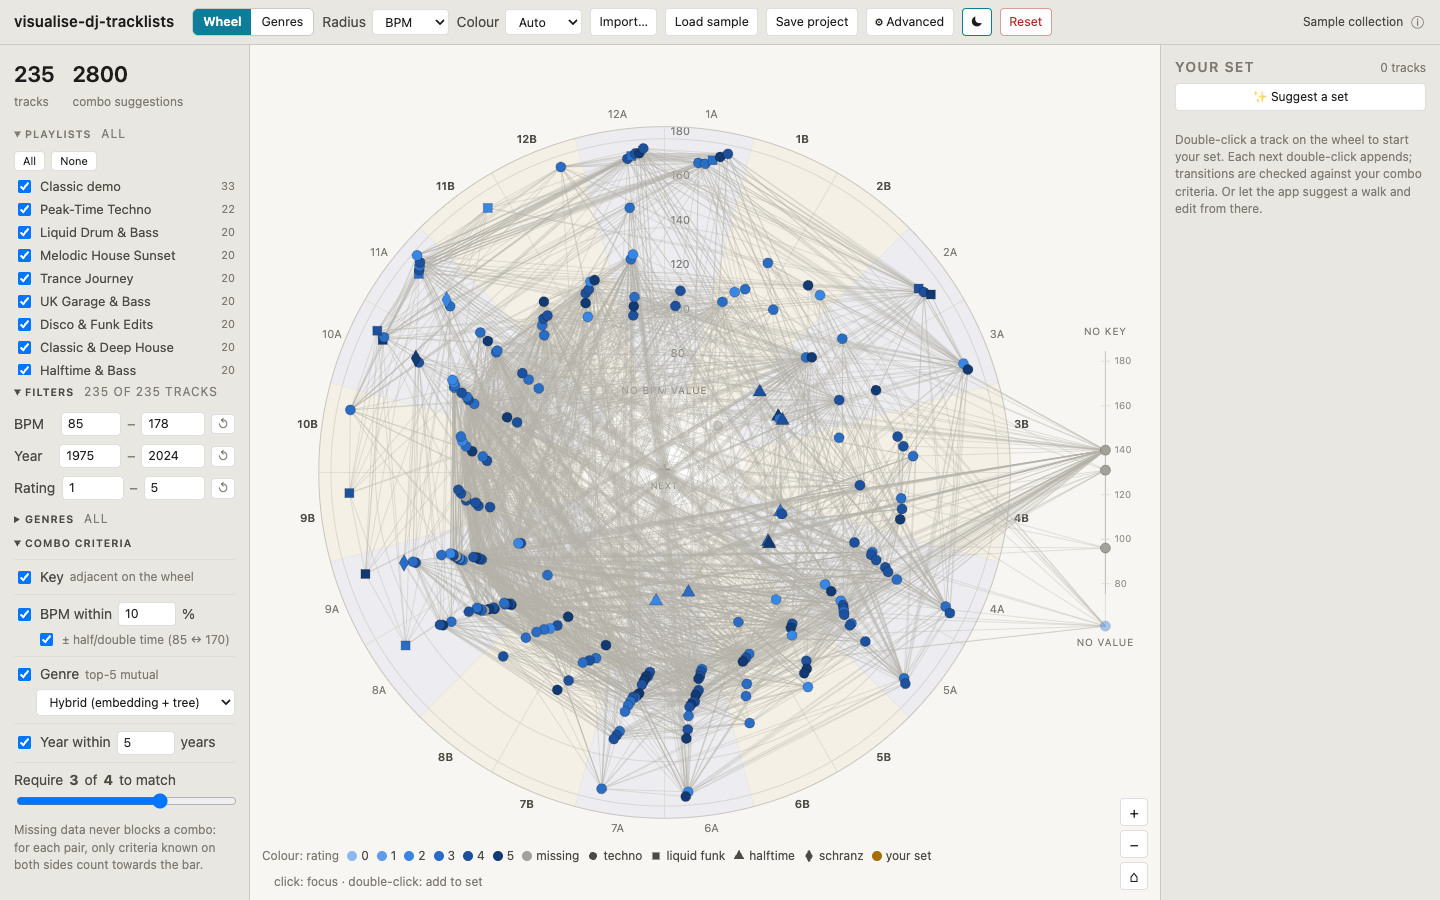
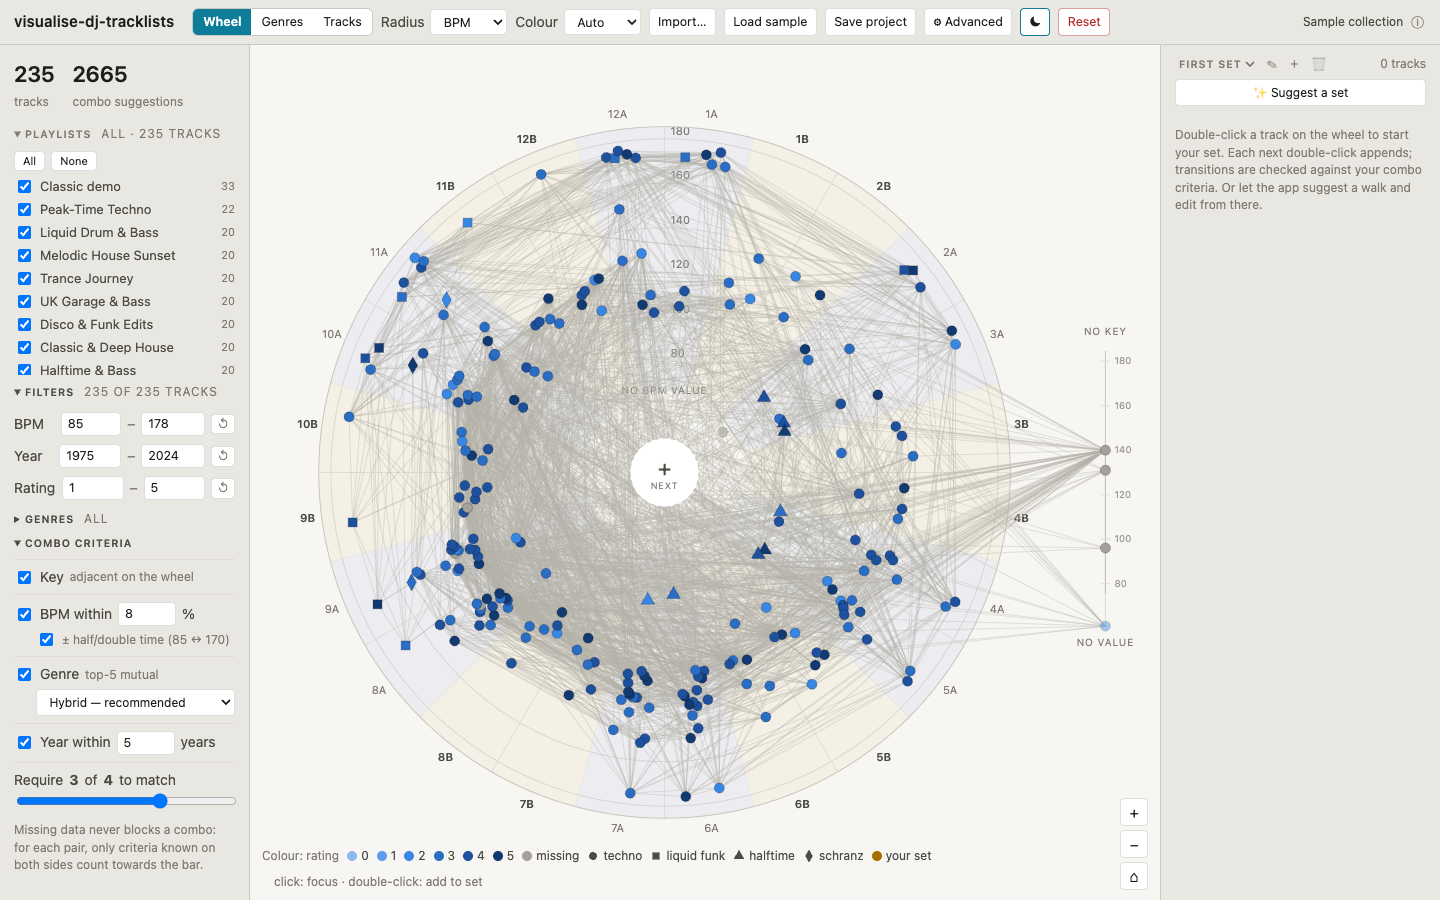
v7 WS17: design-v7.md, README for the v7 features, refreshed screenshots

diff --git a/src/lib/TracksView.svelte b/src/lib/TracksView.svelte
@@ -34,7 +34,13 @@
         : { field, dir: 'asc' }
   }
 
-  const rows = $derived(sortTracks($playlistScopedLibrary, sort))
+  // Sorting always runs over the whole selection, but only the top window is
+  // mounted: thousands of rows with per-row controls take seconds to build,
+  // and the top of the sorted order is what gets scanned anyway. Narrowing
+  // the playlist selection (or flipping the sort) reaches the rest.
+  const MAX_ROWS = 500
+  const sorted = $derived(sortTracks($playlistScopedLibrary, sort))
+  const rows = $derived(sorted.slice(0, MAX_ROWS))
   const connectedIds = $derived($selectedId === null ? null : $neighbours.get($selectedId))
   const mustSet = $derived(new Set($mustInclude))
 
@@ -133,6 +139,12 @@
         {/each}
       </tbody>
     </table>
+    {#if sorted.length > MAX_ROWS}
+      <p class="capped">
+        Showing the first {MAX_ROWS} of {sorted.length} tracks — flip the sort or narrow the playlist
+        selection to reach the rest.
+      </p>
+    {/if}
   {/if}
 </section>
 
@@ -202,8 +214,6 @@
 
   tbody tr {
     cursor: pointer;
-    content-visibility: auto;
-    contain-intrinsic-height: 30px;
   }
 
   tbody tr:hover {
@@ -261,6 +271,12 @@
   .tag.on {
     color: var(--accent);
     opacity: 1;
+  }
+
+  .capped {
+    margin: 8px 12px 12px;
+    color: var(--ink-muted);
+    font-size: 12px;
   }
 
   .visually-hidden {

diff --git a/src/lib/AdvancedMenu.svelte b/src/lib/AdvancedMenu.svelte
@@ -502,12 +502,14 @@
     color: var(--ink-secondary);
   }
 
-  /* Two radio choices side by side; each label keeps its circle and text
-     on one line (issue 11: the old single-label layout wrapped mid-choice). */
+  /* Two radio choices; each label keeps its circle and text on one line
+     (issue 11: the old single-label layout wrapped mid-choice). The row
+     itself may wrap BETWEEN the choices when the panel is narrow. */
   .mode-row {
     display: flex;
     align-items: center;
-    gap: 16px;
+    flex-wrap: wrap;
+    gap: 2px 16px;
   }
 
   .mode-row label {

diff --git a/docs/designs/design-v7.md b/docs/designs/design-v7.md
@@ -1,0 +1,161 @@
+# Design v7 — Eighteen issues after using v6
+
+Eighteen issues from real sessions with v6 (docs/ISSUES.md), covering wheel-geometry
+polish, three large builds (a Tracks table view, multiple named sets, undo), an
+app-wide colour scheme, and one investigation (the "inert" k/threshold sliders).
+This document records the design decided with Michiel before implementation
+(2026-07-16). One item supersedes a documented v6 invariant; it is called out below.
+
+## The issues and their resolutions
+
+| #   | Issue                                             | Resolution                                                                                                                                                 |
+| --- | ------------------------------------------------- | ---------------------------------------------------------------------------------------------------------------------------------------------------------- |
+| 1   | Default BPM range should be 8%                    | `DEFAULT_CRITERIA.bpm.maxPercent` 10 → 8 — the pitch-bend range of a classic Technics 1210 fader; the criterion was already percentage-based                 |
+| 2   | Hotkeys, at least Cmd+Z                           | Cmd+Z / Cmd+Shift+Z undo/redo covering set edits and selection changes ONLY — deliberately the app's single global shortcut this release (§E)               |
+| 3   | Genre map flies in from the top left              | Nodes without a cached position spawn at the map centre (tiny deterministic offsets) instead of d3's origin-spiral default, then physics spreads them        |
+| 4   | Radius/Colour meaningless off the wheel           | The top-bar Radius/Colour selects and the wheel-only Display sliders (spread, edge opacity) disable + grey with a tooltip when the wheel isn't active        |
+| 5   | Animations slightly too fast                      | The radial-domain tween 350 → 600 ms; the genre-map simulation cools slower (alphaDecay 0.02) with more damping (velocityDecay 0.5)                         |
+| 6   | Replace-library warning looks foreign             | A generic in-app `ConfirmDialog` (ResetDialog's `<dialog>` idiom) replaces the native confirm(); sample-over-sample still replaces silently                  |
+| 7   | A third central "Tracks" view                     | A sortable metadata table over the selected playlists with shared selection, connected-row highlighting, double-click append, and set-tag toggles (§F)      |
+| 8   | Playlist/filter counts                            | The Playlists summary becomes "2/9 · 214 tracks" (selection's track total); the Filters summary counts visible over the SELECTED PLAYLISTS, not the library |
+| 9   | Parentheticals in the combo-panel method dropdown | Short labels (`METHOD_LABEL`) in the combo panel with "Hybrid — recommended"; the advanced menu keeps the long labels (`METHOD_LABEL_LONG`) + explainers    |
+| 10  | Advanced settings reorder                         | "Set order" + "Suggestions" merge into one **Set & suggestions** section, LAST and open; opener/closer/essential are chosen in the Tracks view, the menu only lists them read-only with ✕ remove buttons (§F) |
+| 11  | k-nearest/threshold radios wrap badly             | The two radios split into separate labels inside a no-wrap `.mode-row` (the shared label's `flex-wrap: wrap` was the culprit)                               |
+| 12  | k/threshold seem to have no effect                | Diagnosed §G: the wheel respects them (masked); the genre map ignored them. Now the map draws the criterion's REAL matches and the menu shows a live pair count |
+| 13  | Colour scheme should tint the whole app           | `ACCENT_TOKENS` per theme × scheme stamped on `<html>` by theme.ts; blue = the app.css defaults (unit-test-enforced sync); surfaces stay neutral (§H)       |
+| 14  | Genre checklist/classes scoped to playlists       | `scopedGenres` and `genreClasses` derive from the playlist-scoped library — **supersedes the v6 §B "symbols never reshuffle" invariant across playlist toggles** (§B) |
+| 15  | Edge opacity dead in focus mode                   | `focusEdgeOpacity(base, inFocus)` derives both focus opacities from the setting (base 0.35 reproduces the old 0.6/0.05 contrast)                            |
+| 16  | Same-key spread feels artificial                  | Pushback accepted: not uniform random jitter (collides in dense slots) but a stable seeded random ORDER with even spacing; 0–1 spread factor + ↻ re-jitter (§A) |
+| 17  | Hub: hit target, disable, random, follow, retry   | Hub painted last with an oversized hit disk; greys out when every visible track is used; random opener per press; selection follows every pick; a dashed retry ring swaps the last pick (§C) |
+| 18  | Nameable sets, generated indicator                | Multiple named sets (roadmap feature pulled forward): project schema v3, a switcher in the set panel, ordinal default names, a ✨ badge on untouched generator output (§D) |
+
+Decisions taken with the user: undo covers set edits + selection only; the Tracks
+view also appends to the set (double-click); the jitter design is the even-spacing
+counter-proposal; sets are truly multiple (not one renamable set); genre shapes keep
+similarity clustering but scope it to the selected playlists; the colour scheme
+tints the accent family only; the genre map is wired to the criterion parameters
+AND the menu gets a live matched-pair count; no hotkeys beyond undo/redo.
+
+## §A Same-key fan order: stable jitter, not sorted sweeps
+
+v6 sorted each slot's fan by the raw radial value, which made every fan a tidy
+diagonal sweep — angle correlated with BPM, reading as an artifact. v7 orders each
+slot by `hashUnit(trackId, jitterSeed)` (FNV-1a whitened through one mulberry32
+step): random-looking, but a pure function of the id and a persisted seed, so
+angles still never move under filtering, reloads, or playlist toggles. Even
+spacing across the window is kept — uniform random OFFSETS (the original request)
+would visibly clump at ~85 tracks per slot. `slotSpreadDeg` became
+`slotSpreadFactor` (0–1 of the ±7.5° half-slot window, default 1; old saves
+migrate by division); the ↻ button beside the slider draws a new seed and is the
+seed's only writer.
+
+## §B Playlist-scoped genres (supersedes v6 §B in part)
+
+The genre checklist (`scopedGenres`) and the shape clustering (`genreClasses`) now
+derive from the playlist-scoped library instead of the whole collection: a
+2000-track collection's full genre list drowned the playlist actually being
+worked. Within a fixed playlist selection the v6 rule still holds — range/genre
+filtering never re-clusters and symbols never reshuffle — but toggling playlists
+deliberately re-clusters to the new selection. Persisted genre-filter entries
+outside the current scope simply don't render.
+
+## §C Hub v2
+
+Five fixes in one place (WheelView):
+
+- **Paint order**: the hub renders after edges and nodes with a transparent r=46
+  hit disk — nothing steals its clicks any more.
+- **Random opener**: the empty-set, no-selection pick uses `randomStart` under
+  `mulberry32(seed)` with a per-session random seed base — pressing again
+  explores; `bestConnected` is gone.
+- **Follow the pick**: after every hub pick `selectedId` jumps to the added
+  track, so repeated presses continue from the head.
+- **All-used disable**: `hubAllUsed` (every visible track in the set) greys the
+  hub out (`pointer-events: none`, `aria-disabled`) instead of silently no-oping.
+- **Retry ring**: a dashed outer ring appears while `retryAlternativeExists`
+  (pure, adjacency-map based) says a different pick is possible; clicking swaps
+  the last hub pick in place via `suggestNext`'s new `excludeIds` option (earlier
+  retries stay excluded, so it cycles). Any external set edit closes the window.
+
+## §D Multiple named sets, project schema v3
+
+`Project.version = 3`: `sets: TrackSet[]` (`{id, name, trackIds, generated}`) +
+`activeSetId` replace the flat `tracklist`. v1/v2 saves migrate their tracklist
+into one un-generated "First Set"; garbage entries sanitize like tracks do; the
+storage key is unchanged (it names the slot, not the schema).
+
+The stores keep the historical `tracklist: Writable<string[]>` API as a custom
+store backed by the active set — its ~19 call sites did not change. Manual
+`set`/`update` clears the set's `generated` flag; the generator writes through
+`setGeneratedTracklist`, which sets it — that flag drives the subtle ✨ badge
+("untouched generated set") in the panel header. The header holds the switcher
+(a select over the sets), inline rename (no native prompt), ＋ (next ordinal
+name: First, Second, … Twelfth, then "Set 13"), and 🗑 (disabled at one set;
+deleting the last one clears it instead). Suggestion history stays global-session;
+pins/must-include stay global-session and untouched by switching — both
+documented simplifications, not oversights.
+
+## §E Undo
+
+`src/core/history.ts` is a pure past/present/future stack over
+`{trackIds, generated, selectedId}` snapshots (dedupe on deep-equal, limit 100).
+`src/lib/undoStore.ts` subscribes to the active set + selection and records
+everything not caused by an undo/redo itself; Cmd+Z / Cmd+Shift+Z live on one
+window listener in App.svelte, skipped inside text fields and open dialogs. The
+stack resets on set switches, library replacement, and project loads — undo never
+resurrects one set's tracks into another. A generator overwrite is exactly one
+store write, hence one undo step, and the snapshot carries `generated`, so
+undoing it restores both the tracks and the badge. Known quirk: `suggestionIndex`
+is not snapshotted, so after undoing a generated set the ◀/▶ arrows may point one
+entry off. Deliberate non-goals: undo for settings/filters/criteria, undoable set
+switching or deletion, more hotkeys.
+
+## §F The Tracks view and the thinner advanced menu
+
+The third central view (`viewMode: 'tracks'`) is a classic DJ-software browser:
+one row per track of the SELECTED PLAYLISTS (`playlistScopedLibrary` — the range
+and genre filters deliberately do not apply; it is a management surface, not the
+graph). Columns sort per `sortTracks`: strings by locale, numbers numerically,
+keys in Camelot order ("2A" before "10A"), missing values sinking to the bottom
+in both directions. Clicking a row toggles the global selection and highlights
+combo neighbours (`.connected`); double-click appends via the shared
+`appendToSet`. Per-row toggles — ★ essential (must-include), ⏮ opener, ⏭ closer —
+write the same session stores as the 📌 pins, and every tagged track wears a
+subtle accent `tag-ring` behind its wheel dot.
+
+The advanced menu consequently slims down (issue 10): the opener/closer `<select>`
+pickers are gone; "Set order" and "Suggestions" merged into **Set & suggestions**,
+placed last and open by default (the tuning sections start folded), holding the
+generation parameters plus a read-only list of the current opener/closer/essential
+choices with ✕ removes and a "Choose in the Tracks view →" button.
+
+## §G The k/threshold investigation (issue 12)
+
+Diagnosis: the wheel DOES respect mode/k/threshold — `makeGenreMatcher` rebuilds
+reactively — but the effect is masked twice over (an edge needs 3-of-4 criteria,
+so genre rarely is the swing vote; identical labels always match regardless).
+The genre map, however, ignored the parameters entirely: it drew its own edges
+from `labelSimilarity` over a fixed score floor and even seeded its overlay set
+non-reactively. Fix: `matchedGenrePairs(genres, cfg)` in combos.ts computes the
+exact label pairs the criterion links; the map's overlay for the SELECTED method
+draws precisely those pairs (other overlay methods and ghost edges keep the
+similarity view as comparative context), the criterion's method re-joins the
+overlays whenever it changes, and the advanced menu shows a live
+"N genre pairs in your library match" count beside the sliders.
+
+## §H App-wide colour schemes
+
+Blue/Aqua/Violet stop being node-only: `ACCENT_TOKENS[theme][scheme]` in
+scales.ts carries `--accent`, `--on-accent`, `--walk`, `--walk-bright` per theme,
+and theme.ts stamps them inline on `<html>` whenever the theme OR the scheme
+changes. app.css keeps the blue values as its defaults, and a unit test asserts
+`ACCENT_TOKENS.*.blue` equals them — the same sync contract as `MISSING_COLORS`.
+All accent/on-accent pairs pass WCAG AA (4.5:1, tested). Surfaces, sector tints
+and the genre-map method-overlay palette stay neutral/unchanged; the ☀/☾ theme
+toggle is orthogonal.
+
+## Non-goals
+
+Guaranteed must-include placement and per-set pins (unchanged from v6); undo for
+anything beyond set edits + selection; table virtualization (2080 rows render
+fine with `content-visibility: auto`); more hotkeys; per-scheme surface tinting.

diff --git a/README.md b/README.md
@@ -33,27 +33,41 @@ Your library never leaves your machine — there is no backend, no account, no u
 - **Nodes that hold still**: every track's angle is a property of your _library_,
   not of the current filters — filtering and playlist toggling only make nodes
   appear or disappear, leaving gaps in the same-key fans, so nothing ever shuffles
-  around while you narrow down. The one deliberate exception is the **radial axis**:
+  around while you narrow down. Same-key fans spread evenly in a **stable random
+  order** (no artificial BPM sweep); a ↻ button re-shuffles them, and the spread
+  itself scales from 0 to 1. The one deliberate exception is the **radial axis**:
   tighten the min/max of the value shown as radius and the rings, ticks and radii
   glide to the new range (and back, via each filter's ↺ reset). The legend lists
   only the genre classes you can currently see, and disappears when the symbols
   make no distinction. Rating and year rings only sit on whole values.
-- **Map the genres**: a second central view (Wheel | Genres switch) lays your library's
-  genres out with a force simulation — screen distance approximates the distance
-  measure. Toggleable per-method edge overlays show where the six similarity methods
-  agree and disagree; hovering a link lists every method's score for that pair, and a
-  "show nearby genres" toggle ghosts in related genres you don't own yet.
-- **Filter**: BPM / year / rating ranges plus an alphabetical genre checklist decide
-  what participates in the graph at all. Ranges pre-fill with the whole numbers just
-  outside the **selected playlists'** actual extremes, reset to them with a ↺ per
-  range (and whenever you toggle playlists), and a min can never cross its max.
+- **Map the genres**: a second central view (Wheel | Genres | Tracks switch) lays your
+  library's genres out with a force simulation — screen distance approximates the
+  distance measure. Toggleable per-method edge overlays show where the six similarity
+  methods agree and disagree — the overlay for your **active criterion method draws
+  exactly the pairs the criterion links**, k/threshold included; hovering a link lists
+  every method's score for that pair, and a "show nearby genres" toggle ghosts in
+  related genres you don't own yet.
+- **Browse the tracks**: the third central view is a classic sortable table of the
+  selected playlists — every column sortable (keys in Camelot order, missing values
+  last), clicking a row selects it everywhere and highlights its combo neighbours,
+  double-click appends it to the set. Per-row toggles mark a track **essential** (★)
+  or pin it as the **opener/closer** of generated sets; tagged tracks wear a subtle
+  ring on the wheel.
+- **Filter**: BPM / year / rating ranges plus a genre checklist **scoped to the
+  selected playlists** decide what participates in the graph at all. Ranges pre-fill
+  with the whole numbers just outside the selected playlists' actual extremes, reset
+  to them with a ↺ per range (and whenever you toggle playlists), and a min can never
+  cross its max. The filter header counts visible tracks against the playlist
+  selection; the playlists header carries the selection's track total.
 - **Tune the criteria**: key / BPM / genre / year each toggleable and ranged; an edge
   appears when at least _N_ of the enabled criteria match. Missing metadata never blocks
-  a combo. **Half/double-time** BPM matching links 85 ↔ 170 worlds; the **+2** and
-  **+7-semitone** key moves toggle independently; **vinyl mode** models the physics of
-  beatmatching on turntables — pitch shifts the key with the tempo, so keys are always
-  compared _after_ that shift: same-key tracks at different tempos detune apart, and
-  clean-semitone gaps transpose into new matches. Toggling it visibly rewires the graph.
+  a combo. The BPM tolerance defaults to **±8%** — the pitch range of a classic
+  Technics fader. **Half/double-time** BPM matching links 85 ↔ 170 worlds; the **+2**
+  and **+7-semitone** key moves toggle independently; **vinyl mode** models the physics
+  of beatmatching on turntables — pitch shifts the key with the tempo, so keys are
+  always compared _after_ that shift: same-key tracks at different tempos detune apart,
+  and clean-semitone gaps transpose into new matches. Toggling it visibly rewires the
+  graph.
 - **Match genres that aren't spelled the same**: six selectable similarity methods
   (see below) — the dropdown sits right in the combo panel, sourced explainers and
   parameters in the advanced menu. The criterion defaults to the **hybrid** method
@@ -65,28 +79,40 @@ Your library never leaves your machine — there is no backend, no account, no u
 - **Weave a set**: click to focus (a card shows the selection's details), double-click
   to append (the same track can appear twice — just not back-to-back), or press the
   wheel's centre **＋ next** button to slot in the best next track (it inserts
-  _between_ tracks when your selection sits mid-set). When no track matches your
-  criteria from there, the button pulses into a warning-coloured **force** state —
-  clicking it knowingly breaks the rules with the closest non-matching pick.
+  _between_ tracks when your selection sits mid-set; the selection then follows the
+  pick, so pressing again continues from the head). A dashed **retry** ring appears
+  around the hub while an alternative exists — clicking it swaps the last pick for a
+  different one. When no track matches your criteria from there, the button pulses
+  into a warning-coloured **force** state — clicking it knowingly breaks the rules
+  with the closest non-matching pick — and it greys out once every visible track is
+  in the set. **Cmd+Z / Cmd+Shift+Z** undo and redo set edits and selection changes.
   **Suggest a set** generates a full walk from a **random opener** each time; the
   ◀ / ▶ arrows step back to earlier suggestions or generate fresh ones.
-- **Shape the generated order**: the advanced menu's **Set order** section picks the
-  opening and closing track (the same pins as 📌 on the set's first/last rows — with
-  both set, the walk grows from both ends inward), keeps a **must-include** list
-  (mark any selected track; the generator strongly favours working it in), and sets
-  a **BPM progression** — steady, rising, falling, or a sawtooth that builds and
-  drops in cycles. An **adventurousness** setting controls how much dissonance the
-  generator embraces.
+- **Keep several sets**: the set panel's header is a switcher over **named sets** —
+  ＋ starts a "Second Set" (then Third, …), ✎ renames inline, and a subtle ✨ badge
+  marks a set that is untouched generator output (it disappears on the first manual
+  edit). All sets persist with the project.
+- **Shape the generated order**: pick the opening/closing track and the essential
+  (must-include) tracks in the **Tracks view** — the same pins as 📌 on the set's
+  first/last rows; with both ends set, the walk grows from both ends inward. The
+  advanced menu's **Set & suggestions** section lists those choices (with ✕ to
+  remove), and sets the **BPM progression** — steady, rising, falling, or a sawtooth
+  that builds and drops in cycles — plus an **adventurousness** setting for how much
+  dissonance the generator embraces.
 - **Make it yours**: the advanced settings live in the right panel (swapping with
-  "Your set") as collapsible sections, so the wheel reacts live while you tune
-  without a wall of controls. A ☀/☾ switch flips between the dark and light theme;
-  fresh visitors follow the system preference. The top bar stays lean: the imported
-  collection's name plus an ⓘ whose tooltip holds the import details.
+  the set) as collapsible sections, so the wheel reacts live while you tune
+  without a wall of controls. The **colour scheme** (blue / aqua / violet) tints the
+  whole app — accents, the set path, the genre map — not just the nodes; a ☀/☾
+  switch flips between the dark and light theme (fresh visitors follow the system
+  preference). The top bar stays lean: the imported collection's name plus an ⓘ
+  whose tooltip holds the import details.
 - **Take it with you**: export the set as M3U8 (Rekordbox re-imports it) or CSV; save
   the whole project as JSON — every export asks for a filename first. Everything
   autosaves to the browser; a Reset button (with confirmation) wipes the slate.
 
 ![A Rekordbox collection with the playlists panel](docs/screenshots/playlists.png)
+
+![The Tracks table view with set tags](docs/screenshots/tracks-view.png)
 
 ![The advanced settings beside the wheel](docs/screenshots/advanced-filters.png)
 
@@ -142,7 +168,7 @@ hybrid methods.
 ```sh
 npm install
 npm run dev      # start the app
-npm test         # unit tests (keys, combos, genre, filters, importers, exporters, suggest, persistence, samples)
+npm test         # unit tests (keys, combos, genre, filters, importers, exporters, suggest, sets, history, persistence, samples)
 npm run lint     # eslint + prettier check
 npm run check    # svelte-check + tsc
 npm run build    # production build
@@ -163,7 +189,6 @@ decisions live in [docs/designs/](docs/designs/).
 Planned next (in rough order): force-layout "free" view for _tracks_ (the genre map
 already ships the d3-force groundwork), weighted edges with per-criterion weight
 sliders, walk-quality metrics (the first step toward DJ fingerprints),
-insert-between-via-edge-drag, a sortable library table view, undo/redo,
-multiple named sets per project, Rekordbox-XML playlist export, a 3D "set journey"
+insert-between-via-edge-drag, Rekordbox-XML playlist export, a 3D "set journey"
 tunnel view, opt-in local audio analysis (Essentia.js), and fingerprint analytics over
 imported tracklists.
